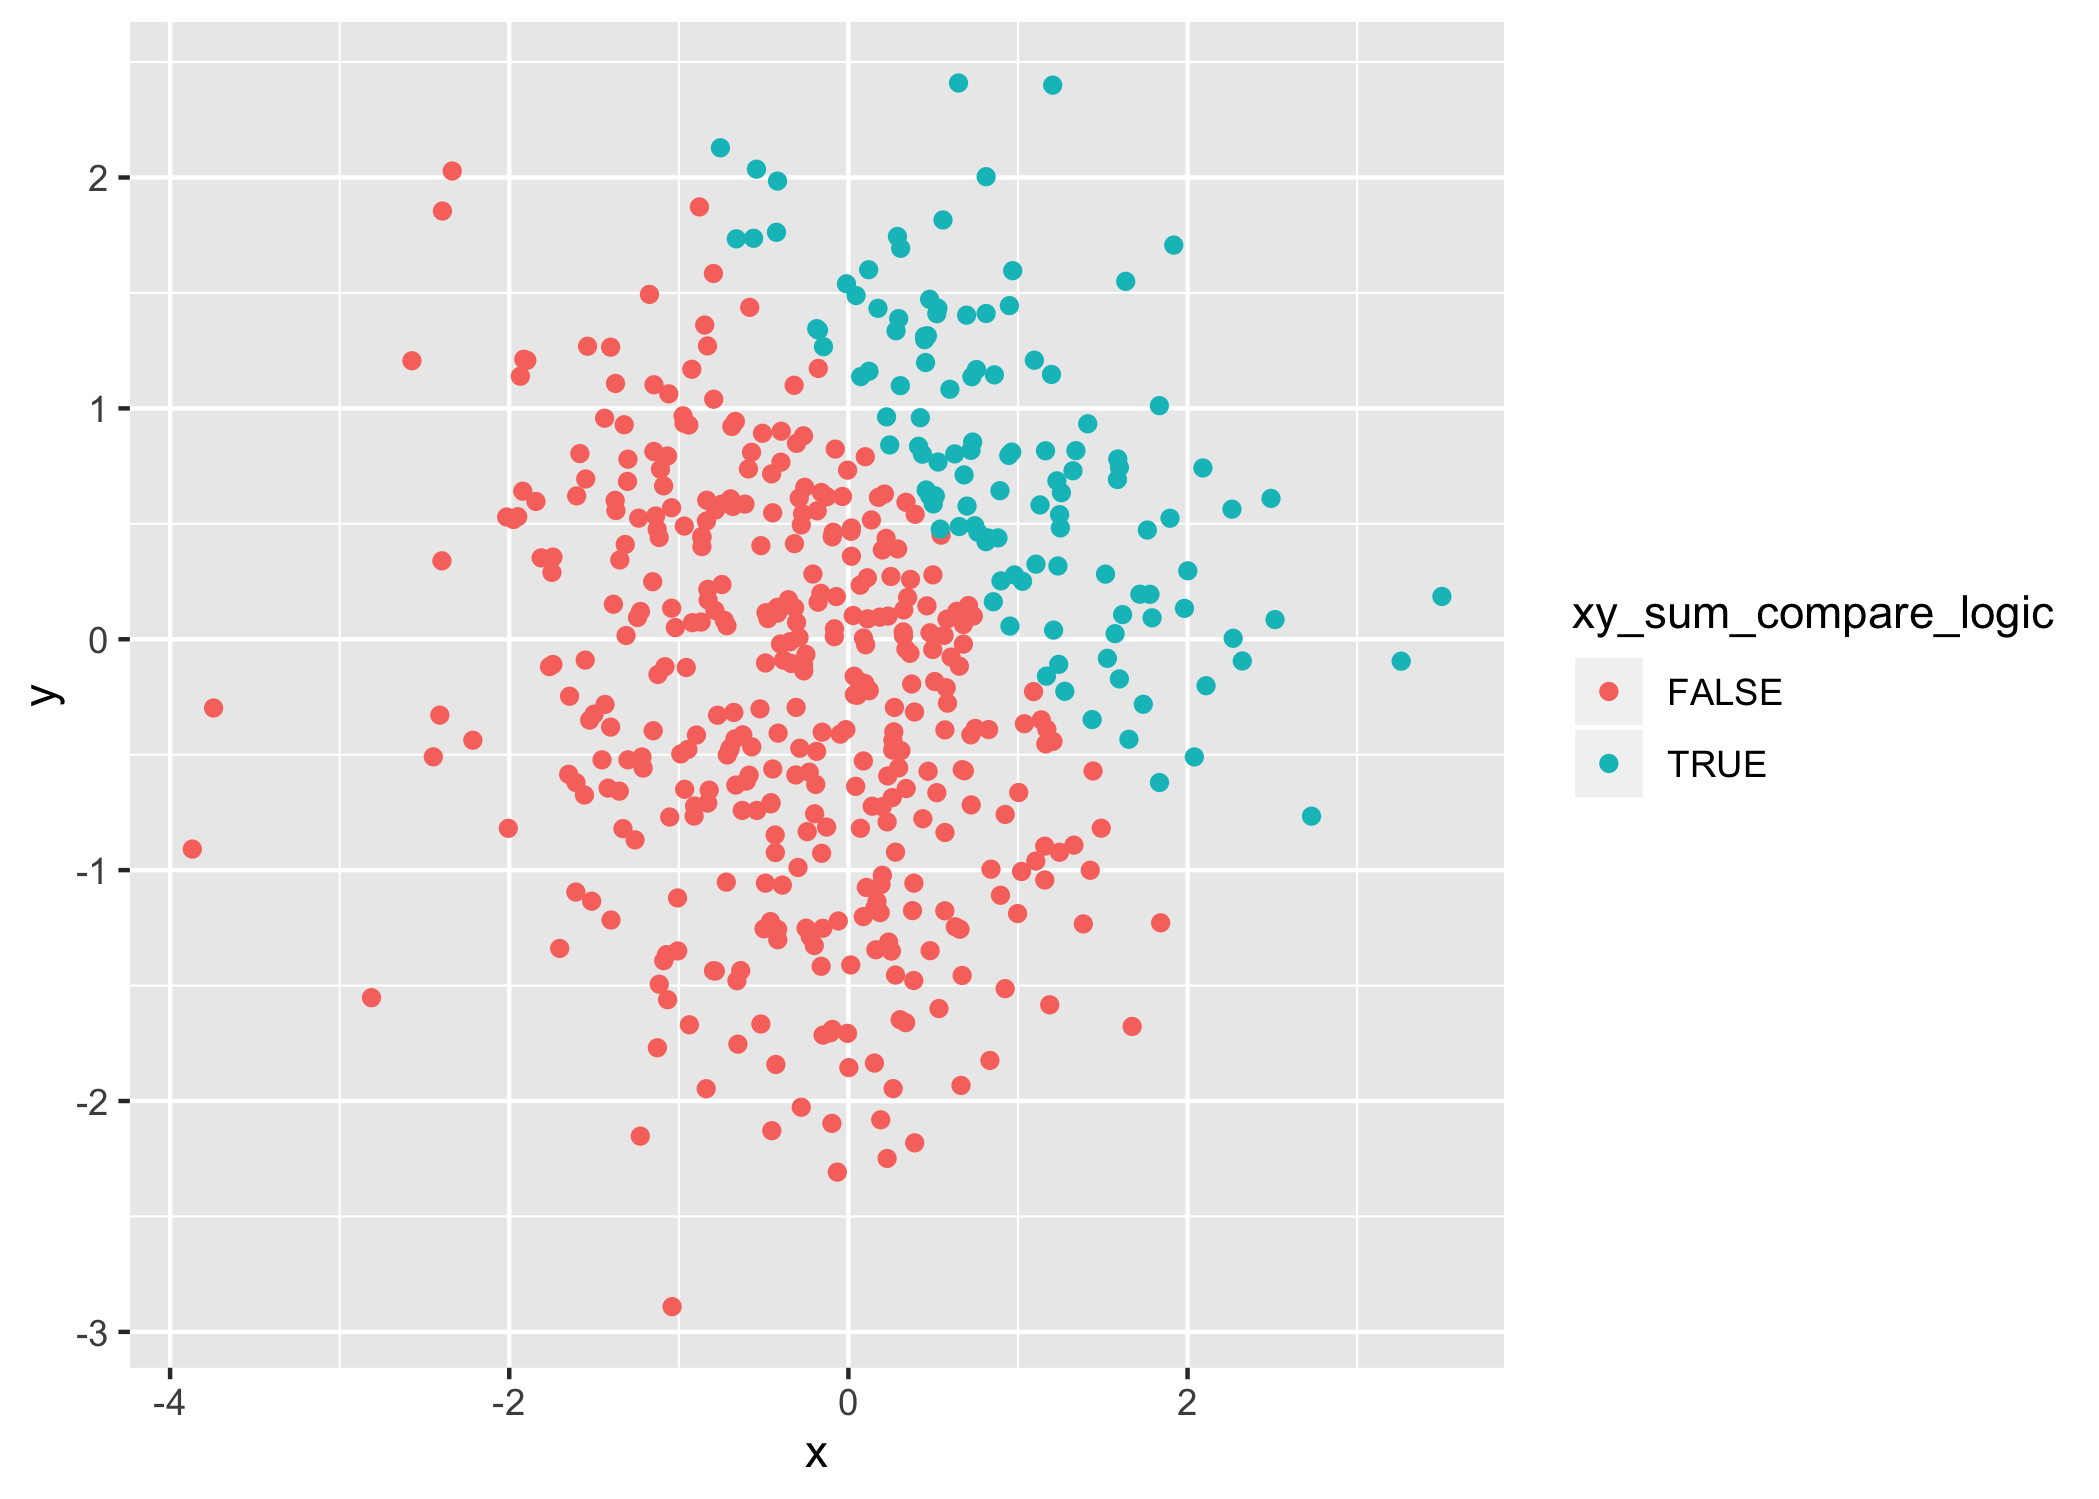
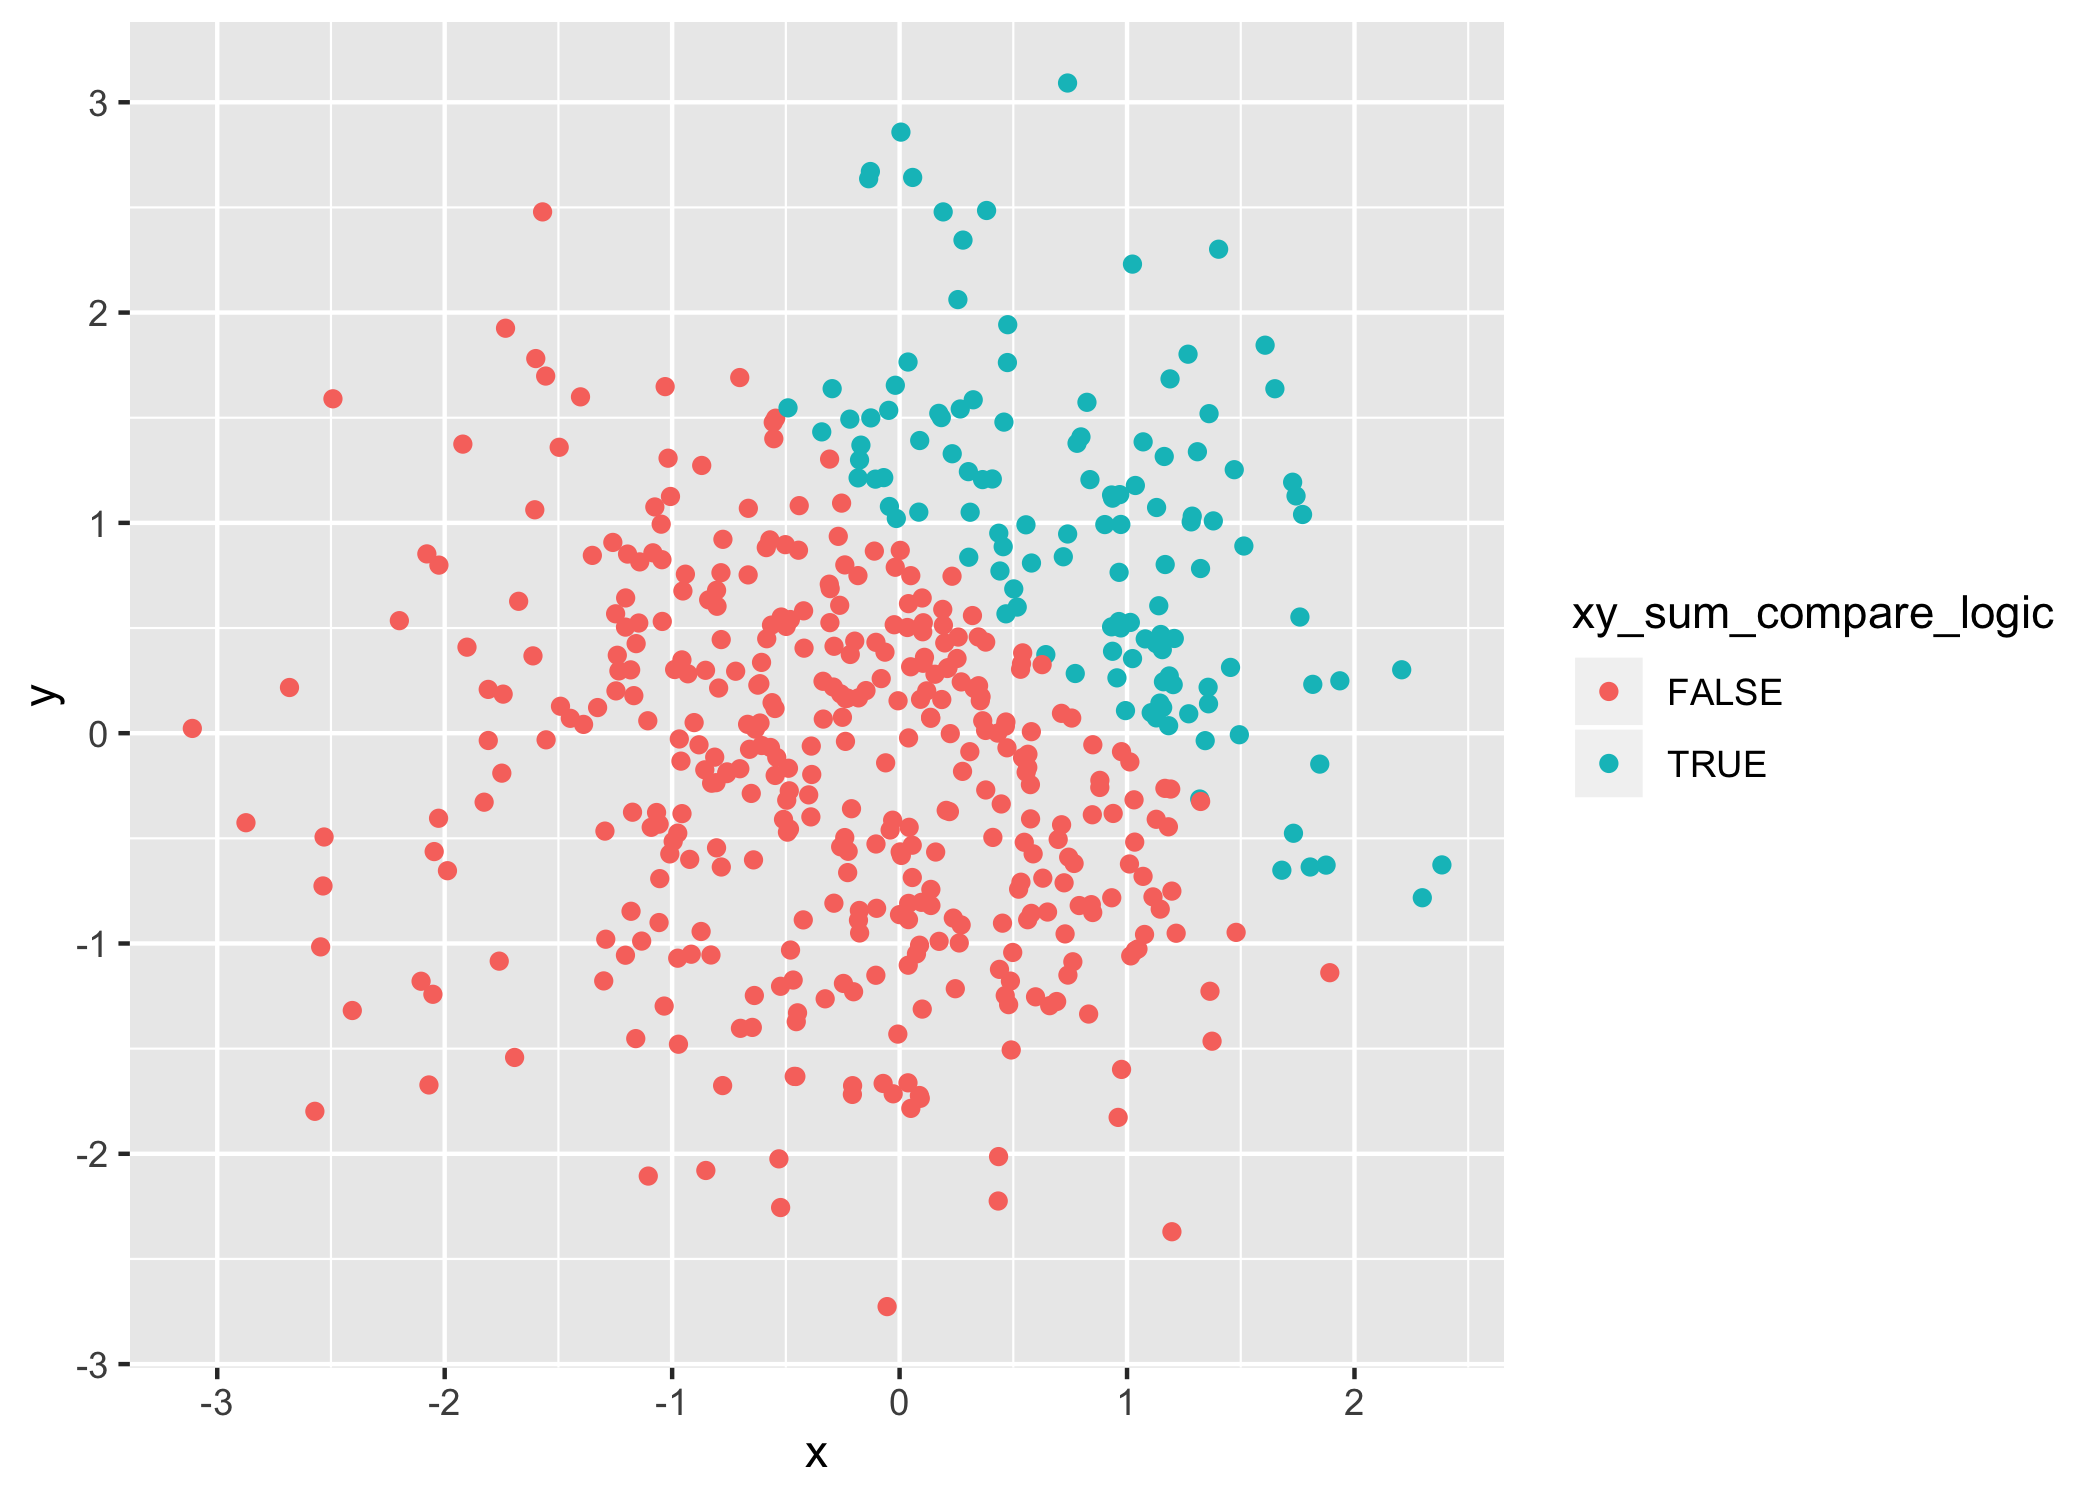
Update the answers and correct some minor issues.

diff --git a/p8105_hw1_jc5314.md b/p8105_hw1_jc5314.md
@@ -23,7 +23,7 @@ p1_df = tibble(
 
 ``` r
 mean(pull(p1_df, norm_samp))
-## [1] 0.6585602
+## [1] 0.3483569
 mean(pull(p1_df, norm_samp_pos))
 ## [1] 0.625
 mean(pull(p1_df, character_vector))
@@ -53,11 +53,11 @@ as.numeric(pull(p1_df, factor_level))
 ```
 
 When applying the `as.numeric` function to the logical variable, the
-`TURE` in the logical variable is converted to `1` and `FALSE` is
+`TURE` in the logical variable is converted to `1` and the `FALSE` is
 converted to `2`. For the character variable, the function does not work
 and give `NA` as results. For the factor variable, factors are converted
-to numbers starting from `1` and the number of same factors are the
-same.
+to numeric numbers starting from `1` and the number for same factors are
+the same.
 
 I think this is because the logical and factor variables can be
 considered as categorical variables. Thus, they can be converted to
@@ -66,15 +66,15 @@ categories. However, the character variable cannot be divied into
 different categories and thus it cannot be converted to any certain
 number. I think this helps explain the reason why logical variable can
 take the mean but character variable cannot. But it does not explain why
-the factor varible cannot take the mean
+the factor variable cannot take the mean
 neither.
 
 ``` r
 # Convert the logical vector to numeric, and multiply the random sample by the result:
 
 as.numeric(pull(p1_df, norm_samp_pos)) * pull(p1_df, norm_samp)
-## [1] 2.3490977 0.0000000 0.6957339 1.3614631 0.0000000 0.0000000 1.0192251
-## [8] 1.2410935
+## [1] 1.74872865 0.19647303 0.00000000 0.00000000 0.65116037 0.00000000
+## [7] 0.08082518 1.42268767
 
 # Convert the logical vector to a factor, and multiply the random sample by the result:
 
@@ -88,8 +88,8 @@ factor(pull(p1_df, norm_samp_pos)) * pull(p1_df, norm_samp)
 
 factor_samp_pos = factor(pull(p1_df, norm_samp_pos))
 as.numeric(factor_samp_pos) * pull(p1_df, norm_samp)
-## [1]  4.6981954 -0.4414847  1.3914678  2.7229262 -0.8025544 -0.1540928
-## [7]  2.0384502  2.4821870
+## [1]  3.49745730  0.39294607 -0.58358691 -0.68119677  1.30232074 -0.04823611
+## [7]  0.16165035  2.84537533
 ```
 
 # Problem 2
@@ -110,19 +110,24 @@ p2_df = tibble(
 Dataset description:
 
 The dataset `p2_df`contains 500 rows and 5 columns. For the variable `x`
-in dataset, the mean is -0.0581569, the median is -0.0250602 and the
-standard deviation is 1.0320743. The proportion of cases for which `x +
-y > 1` is 23.8%.
+in dataset, the mean is -0.034487, the median is 0.0355103 and the
+standard deviation is 0.9636229. The proportion of cases for which `x +
+y > 1` is 24.6%.
 
-### 2\. Make a scatterplot of `y` vs `x`:
+### 2\. Make scatterplots of `y` vs `x`:
 
-Make the
-plots:
+Make the plots:
 
 ``` r
+# color points using the logical variable
+
 plot_1 = ggplot(p2_df, aes(x = x, y = y, color = xy_sum_compare_logic)) + geom_point()
 
+# color points using the numeric variable
+
 plot_2 = ggplot(p2_df, aes(x = x, y = y, color = xy_sum_compare_numeric)) + geom_point()
+
+# color points using the factor variable
 
 plot_3 = ggplot(p2_df, aes(x = x, y = y, color = xy_sum_compare_factor)) + geom_point()
 ```
